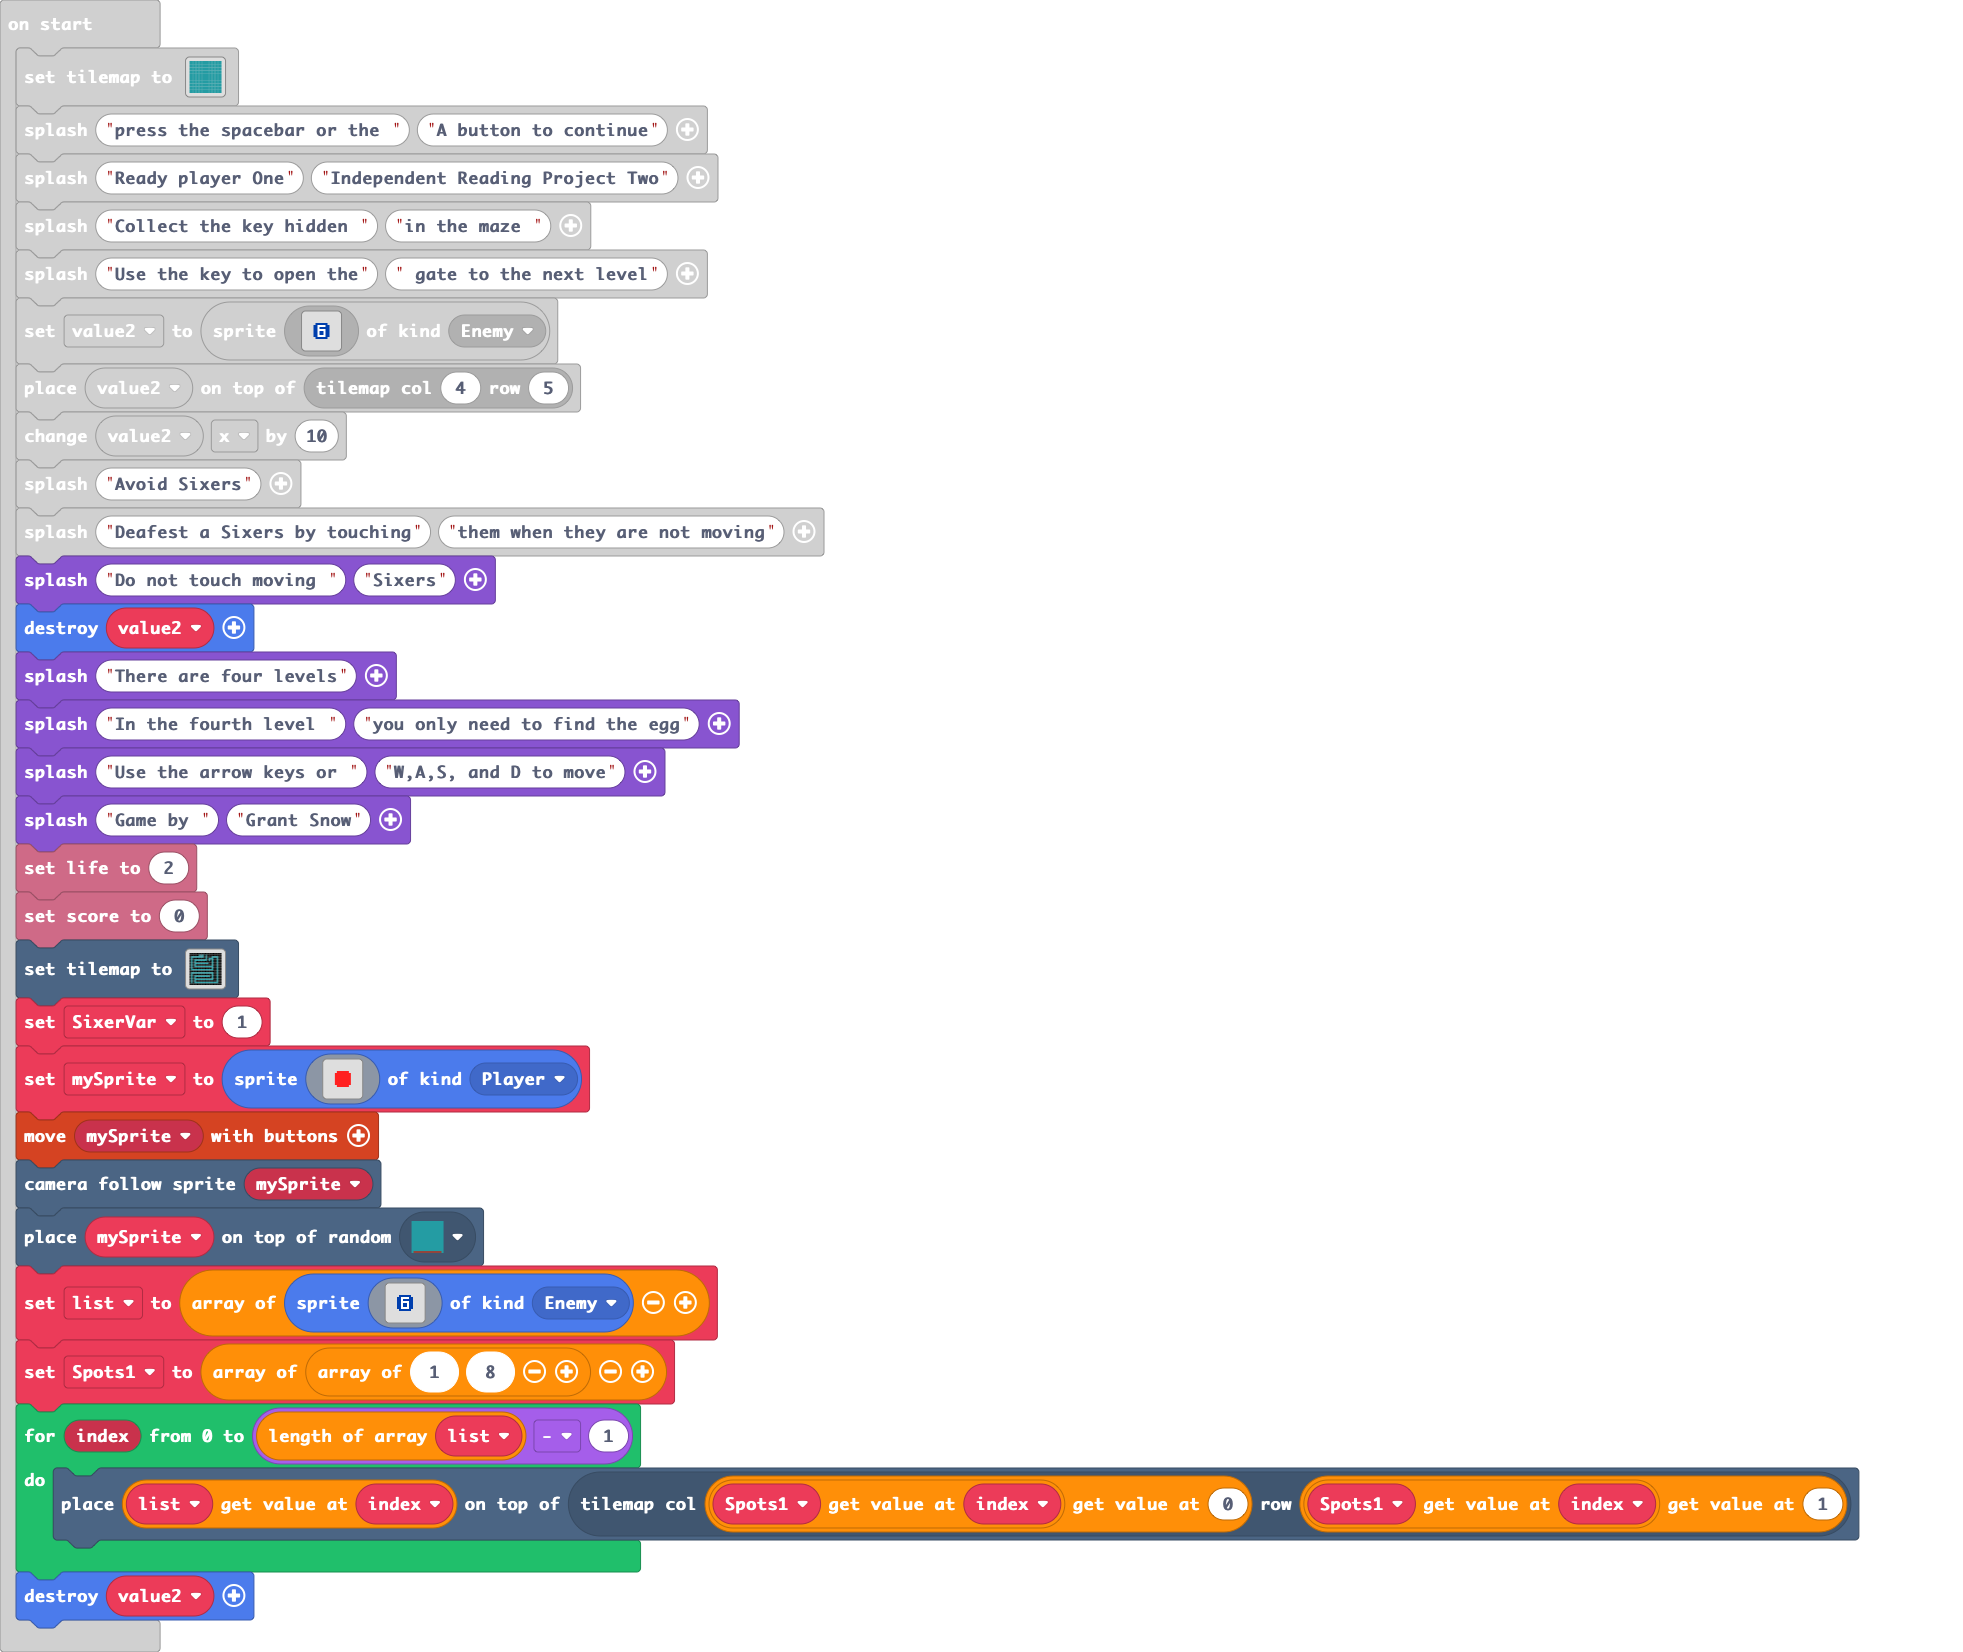
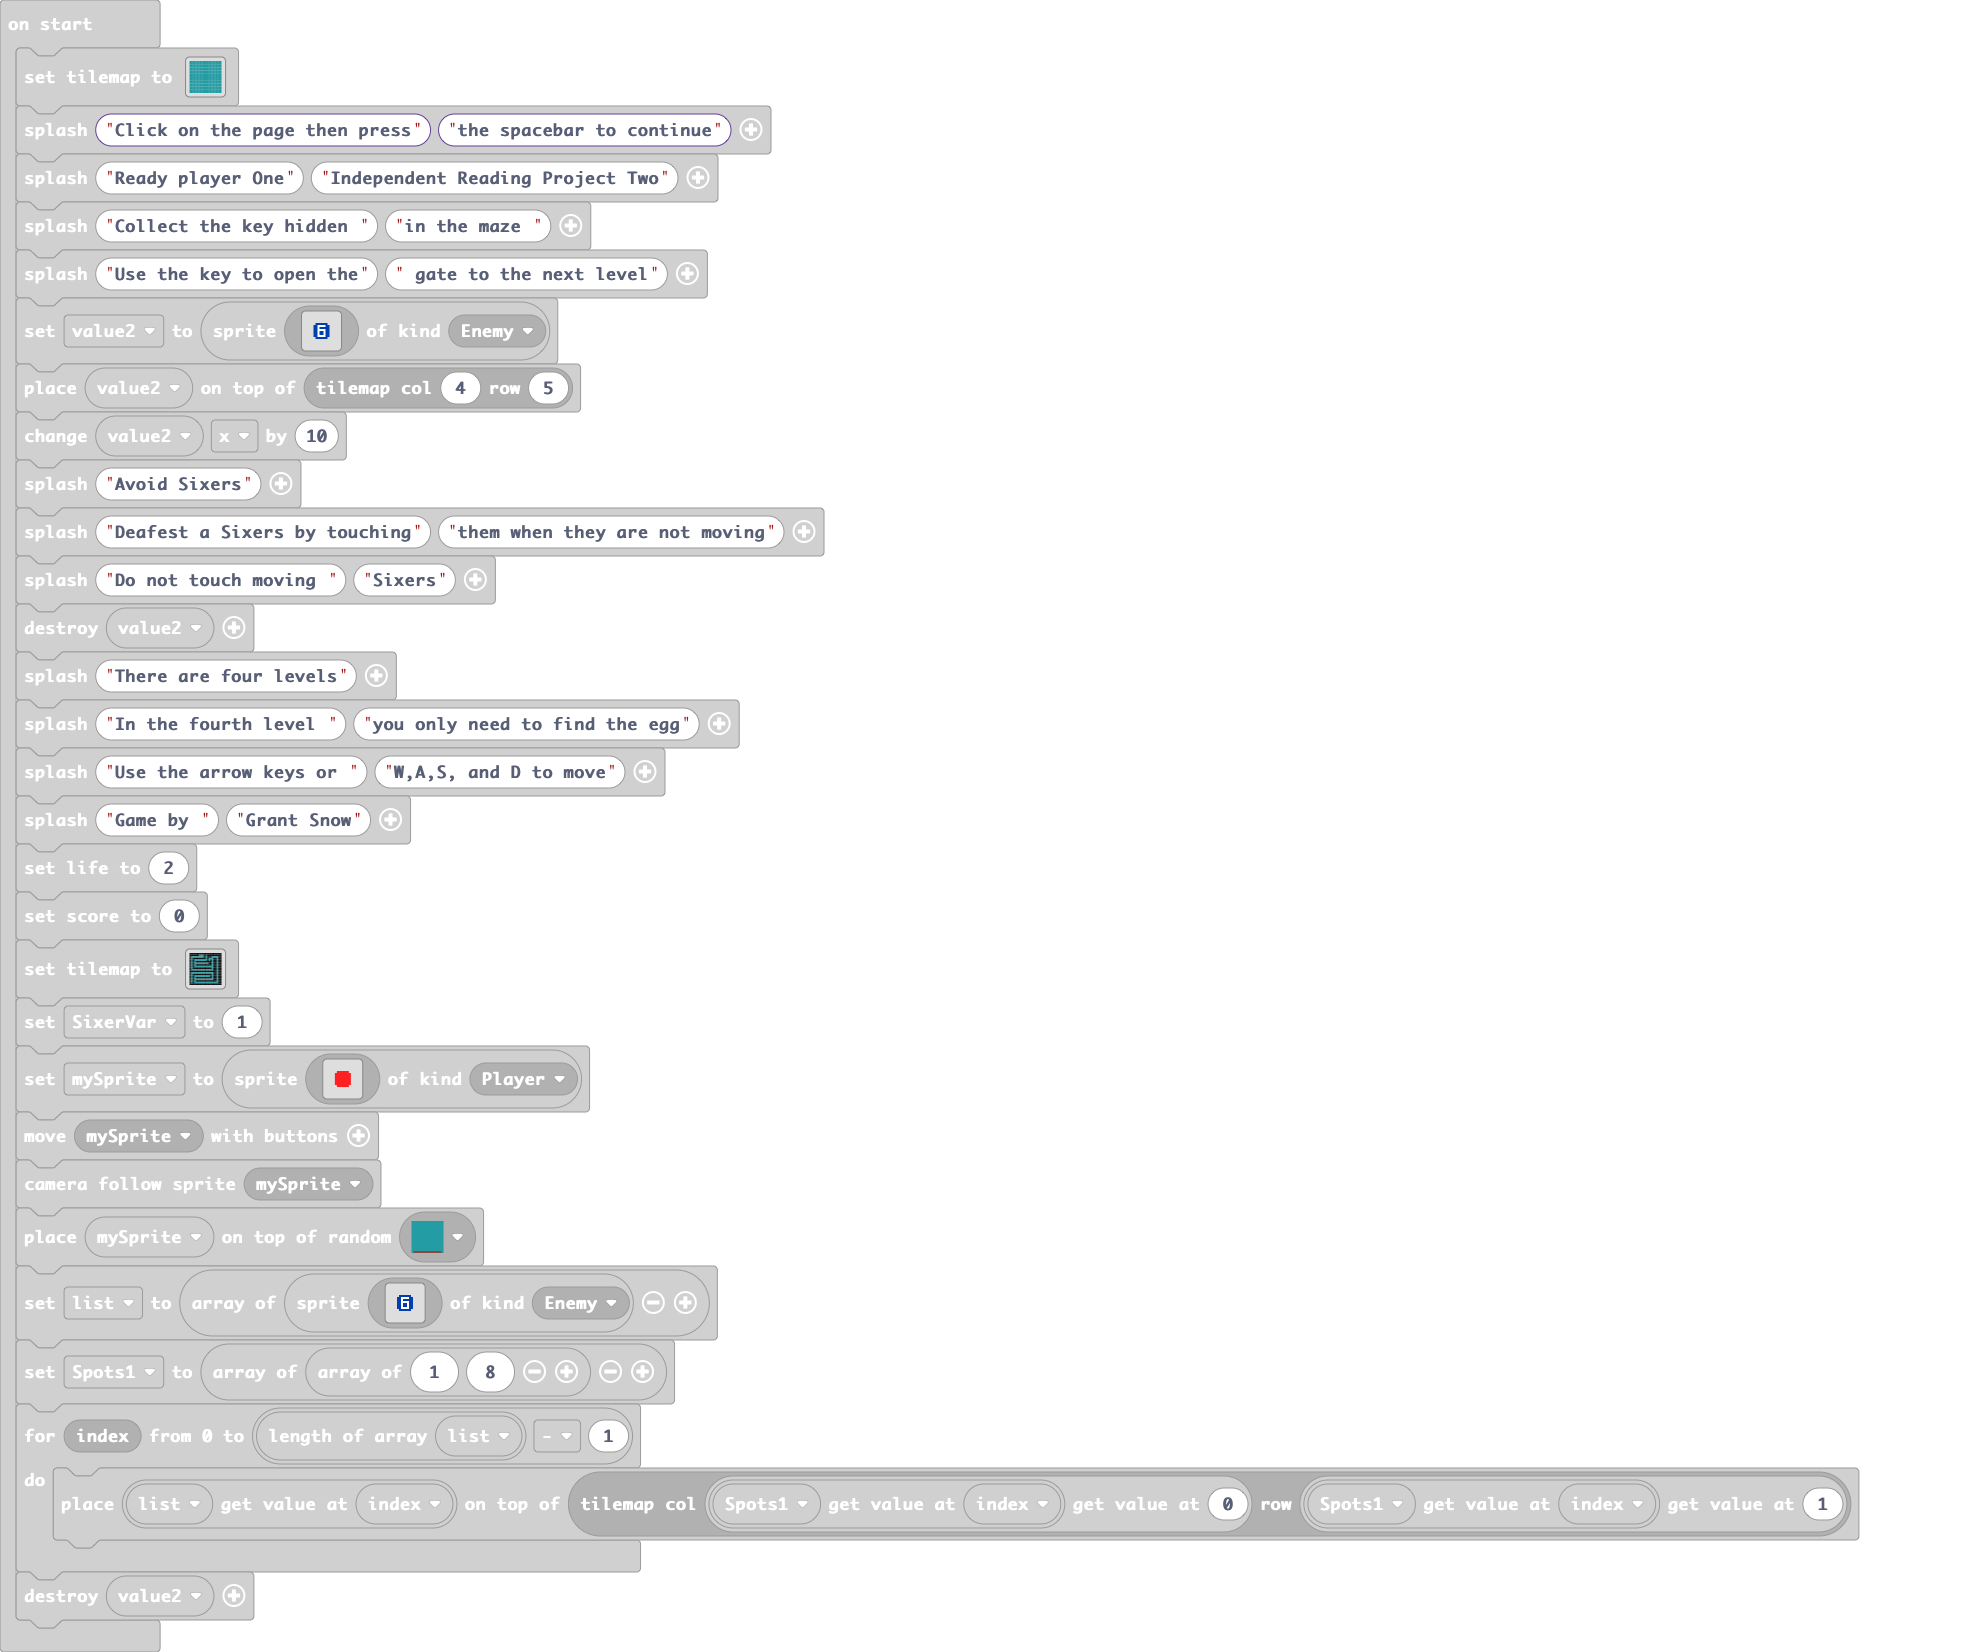
Update main.blocks, main.ts

Changed region(s): [[0.0, 0.3087, 0.9633, 0.9879], [0.0621, 0.0617, 0.404, 0.0926]]

diff --git a/main.ts b/main.ts
@@ -246,7 +246,7 @@ let list: Sprite[] = []
 let mySprite: Sprite = null
 let SixerVar = 0
 tiles.setTilemap(tilemap`level29`)
-game.splash("press the spacebar or the ", "A button to continue")
+game.splash("Click on the page then press", "the spacebar to continue")
 game.splash("Ready player One", "Independent Reading Project Two")
 game.splash("Collect the key hidden ", "in the maze ")
 game.splash("Use the key to open the", " gate to the next level")
